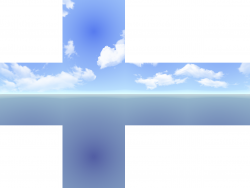
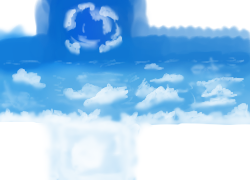
trial

diff --git a/data/src/client/scene/sceneMainGame.cpp b/data/src/client/scene/sceneMainGame.cpp
@@ -22,6 +22,8 @@ bool SceneMainGame::init()
     bamboo = ObjModelLoader().load("./data/res/gui/obj/bambooshootchara/", "bambooshootchara");
     sprite = GuiSpriteLoader().load("./data/res/gui/image/effect/magic_R.png", 1, 1);
     trialpart = ParticleLoader().load("./data/res/gui/image/effect/slash.png", 3, 3, 1000);
+    android = ObjModelLoader().load("./data/res/gui/obj/", "test");
+
     particle_emission == 0;
     for (int i = 0; i < StatusDrawer::CHARA_NUMBER; i++)
     {
@@ -46,7 +48,7 @@ SCENE_ID SceneMainGame::reactController(ControllerParam param)
     if (param.buttonDown[CT_DECITION_OR_ATTACK] == true && particle_emission == 0)
     {
         particle_emission = 1;
-        trialpart->generate(10);
+        trialpart->generate(100);
     }
     if (param.buttonUp[CT_DECITION_OR_ATTACK] == true)
         particle_emission = 0;
@@ -69,14 +71,20 @@ void SceneMainGame::draw3D()
 
     ShaderManager::startShader(SID_TEXTURING);
     glPushMatrix();
-    glScalef(90.0f, 90.0f, 90.0f);
+    glScalef(180.0f, 90.0f, 90.0f);
     skybox->draw();
     glPopMatrix();
     ShaderManager::stopShader(SID_TEXTURING);
 
     ShaderManager::startShader(SID_T_PHONG);
     glPushMatrix();
-    glScalef(10.0f, 1.0f, 10.0f);
+    glTranslatef(0.0f, 18.0f, 0.0f);
+    glScalef(16.0f, 16.0f, 16.0f);
+    android->draw();
+    glPopMatrix();
+
+    glPushMatrix();
+    glScalef(20.0f, 1.0f, 10.0f);
     tile->draw();
     glPopMatrix();
     ShaderManager::stopShader(SID_T_PHONG);
@@ -92,8 +100,10 @@ void SceneMainGame::draw3D()
     // glPopMatrix();
 
     glPushMatrix();
-    glScalef(1.6f, 1.6f, 1.6f);
+    // glScalef(1.6f, 1.6f, 1.6f);
+
     glTranslatef(mushEye.x, 0, mushEye.y);
+
     //bamboo->draw();
     glPopMatrix();
 

diff --git a/data/src/client/scene/sceneMainGame.h b/data/src/client/scene/sceneMainGame.h
@@ -23,6 +23,7 @@ private:
   Character *mush;
   ObjRawModel *bamboo;
   ObjRawModel *skybox;
+  ObjRawModel *android;
 
   Vector2f positionMush;
   Vector3f mushEye;
